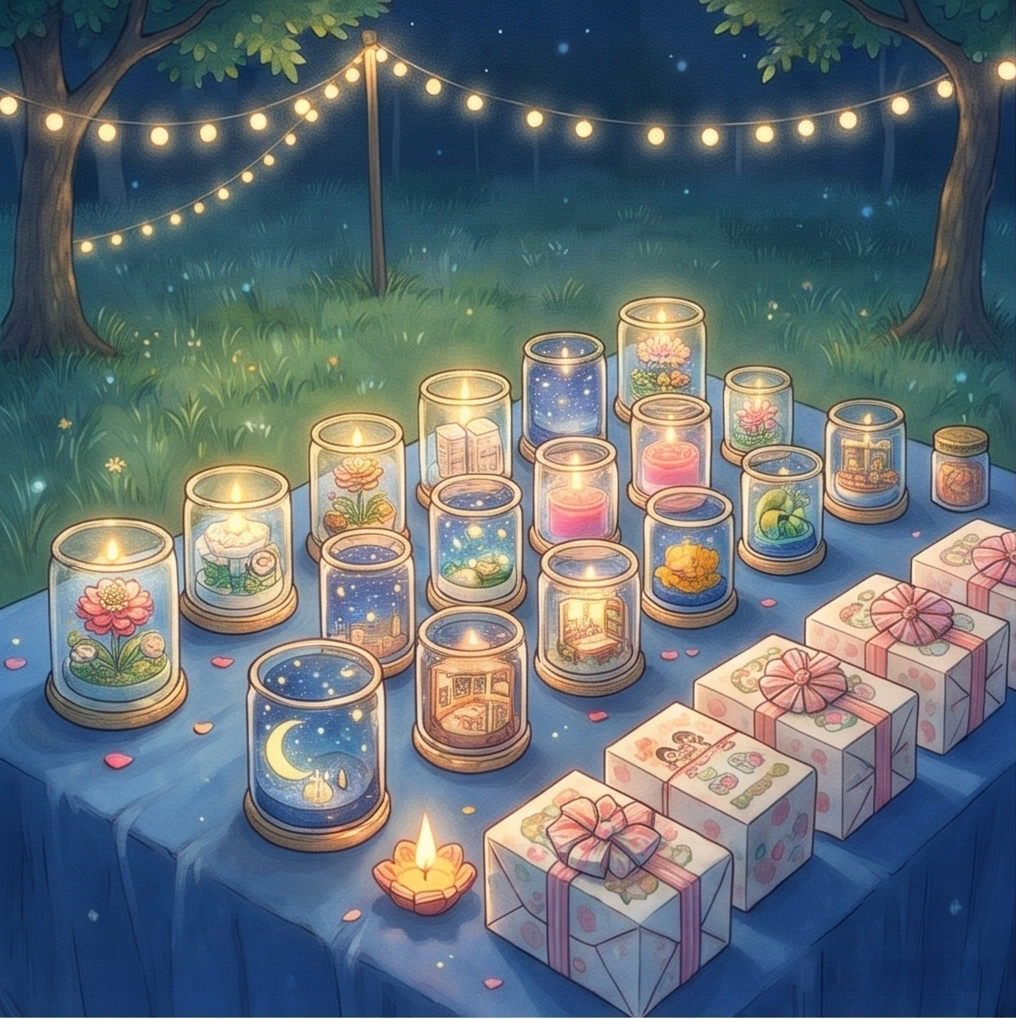
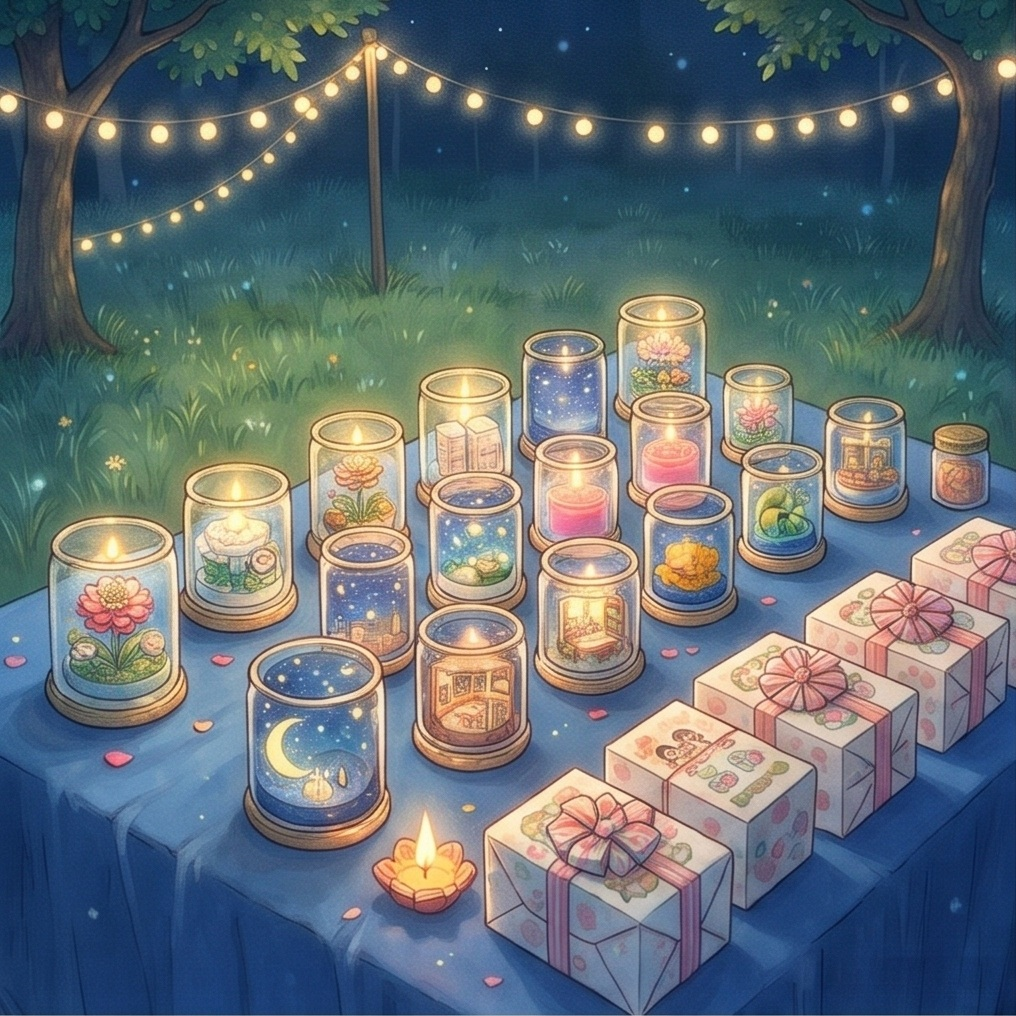
feat: replace scroll-1 image and crop all 6 gallery images to 1:1 squares

diff --git a/index.html b/index.html
@@ -5,7 +5,7 @@
 <meta name="viewport" content="width=device-width, initial-scale=1.0">
 <title>GlowNest — Hand-poured Scented Candles</title>
 <meta name="description" content="Hand-poured jar candles in Rose, Lavender, Jasmine, and Tea-Tree scents, made in small batches by GlowNest.">
-<link rel="stylesheet" href="style.css?v=8">
+<link rel="stylesheet" href="style.css?v=9">
 <!-- Vercel Web Analytics & Speed Insights -->
 <script>
   window.va = window.va || function () { (window.vaq = window.vaq || []).push(arguments); };
@@ -184,23 +184,23 @@
       </div>
     </div>
     <div class="gallery-grid">
-      <div class="g-tile g-tall">
-        <img src="images/scroll-1.jpg" alt="Handcrafted glowing flame candle with pearls and gold foil" loading="lazy">
+      <div class="g-tile">
+        <img src="images/scroll-1.jpg?v=2" alt="Handcrafted watercolor jelly candle with ocean seashells, pearls, and glowing flame in a glass jar" loading="lazy">
       </div>
       <div class="g-tile">
-        <img src="images/scroll-2.jpg" alt="Studio visitors and little children admiring GlowNest candle jars" loading="lazy">
+        <img src="images/scroll-2.jpg?v=2" alt="Studio visitors and little children admiring GlowNest candle jars" loading="lazy">
       </div>
       <div class="g-tile">
-        <img src="images/scroll-3.jpg" alt="Floating floral candles arranged on a festive marigold platter" loading="lazy">
+        <img src="images/scroll-3.jpg?v=2" alt="Floating floral candles arranged on a festive marigold platter" loading="lazy">
       </div>
       <div class="g-tile">
-        <img src="images/scroll-4.jpg" alt="Artisan candle jar collection and gift boxes under fairy lights" loading="lazy">
+        <img src="images/scroll-4.jpg?v=2" alt="Artisan candle jar collection and gift boxes under fairy lights" loading="lazy">
       </div>
       <div class="g-tile">
-        <img src="images/scroll-5.jpg" alt="Behind the scenes: hand-pouring and crafting candles in the studio" loading="lazy">
+        <img src="images/scroll-5.jpg?v=2" alt="Behind the scenes: hand-pouring and crafting candles in the studio" loading="lazy">
       </div>
-      <div class="g-tile g-tall">
-        <img src="images/scroll-6.jpg" alt="Handcrafted floral candle bouquets wrapped in botanical craft paper" loading="lazy">
+      <div class="g-tile">
+        <img src="images/scroll-6.jpg?v=2" alt="Handcrafted floral candle bouquets wrapped in botanical craft paper" loading="lazy">
       </div>
     </div>
   </div>

diff --git a/style.css b/style.css
@@ -423,20 +423,8 @@ blockquote{
 /* insta-style gallery */
 .gallery-grid{
   display:grid;
-  grid-template-columns:repeat(4, minmax(0, 1fr));
-  gap:14px;
-}
-.gallery-grid .g-tall{
-  grid-row:span 2;
-  aspect-ratio:auto;
-}
-.gallery-grid .g-tall:first-child{
-  grid-column:1;
-  grid-row:1 / span 2;
-}
-.gallery-grid .g-tall:last-child{
-  grid-column:4;
-  grid-row:1 / span 2;
+  grid-template-columns:repeat(3, minmax(0, 1fr));
+  gap:16px;
 }
 .g-tile{
   border-radius:var(--radius);
@@ -459,14 +447,7 @@ blockquote{
 @media (max-width:760px){
   .gallery-grid{
     grid-template-columns:repeat(2, minmax(0, 1fr));
-    gap:10px;
-  }
-  .gallery-grid .g-tall,
-  .gallery-grid .g-tall:first-child,
-  .gallery-grid .g-tall:last-child{
-    grid-column:auto;
-    grid-row:auto;
-    aspect-ratio:1/1;
+    gap:12px;
   }
 }
 
